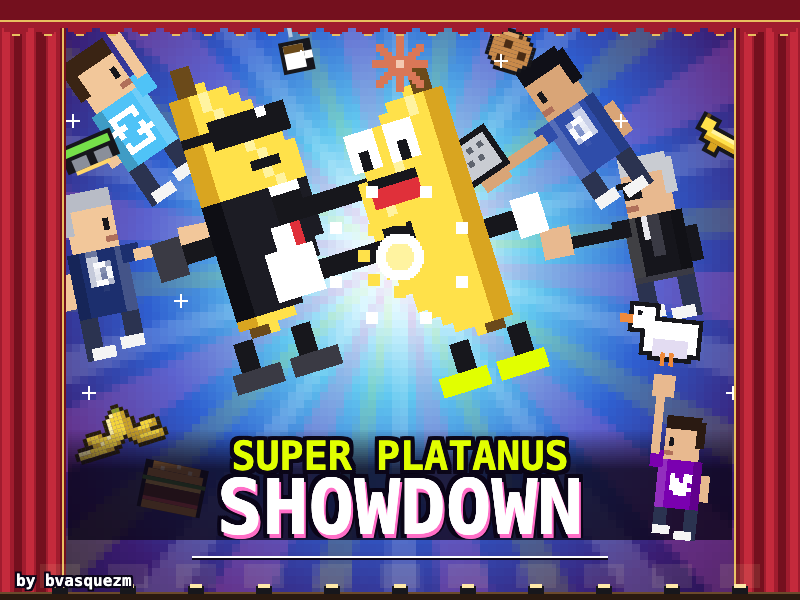
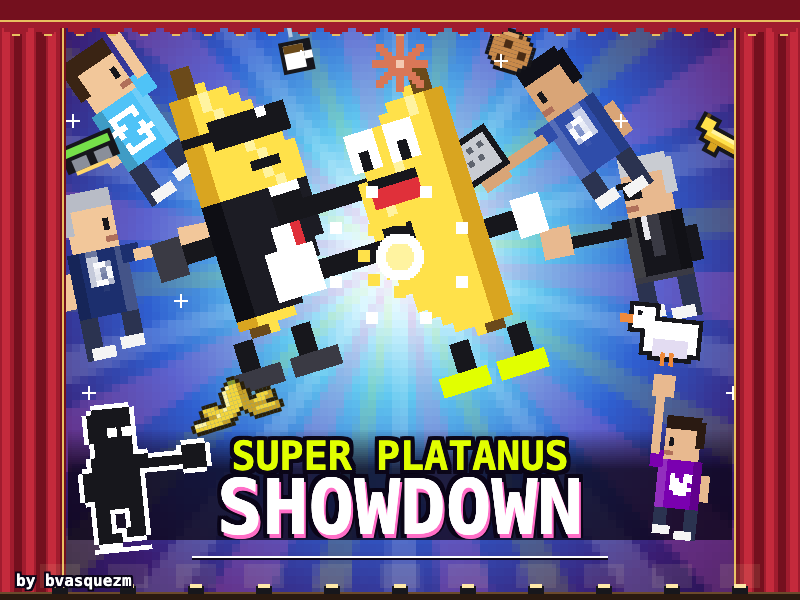
Agrega a Admin (especial SUDO) y destaca el escenario en la selección
Admin: silueta negra con borde blanco; SUDO lanza una sombra a ras de piso
que rootea, invierte los controles o ralentiza al rival. Nombres cortos de
escenarios, portada y descripción con 8 personajes.

Changed region(s): [[0.0938, 0.63, 0.375, 0.93]]

diff --git a/game.js b/game.js
@@ -74,6 +74,8 @@ const CHARS = [
   { n: 'PIPE SATÉLITE', k: 1, sh: $8, lg: 'b', hr: $A, sk: $5, sp: 2.2, jp: 5.4, wt: 1, s: 'orb', tip: 'RUBY EN ÓRBITA' },
   // Tokus: su especial es colgarse de un pajarito y volar unos segundos; después tiene 5 s de espera
   { n: 'TOKUS', k: 1, sh: '#7a00b0', lg: '', ic: LOGO_T, hr: '#2a1a12', sk: $7, sp: 2.3, jp: 5.4, wt: 0.95, s: 'fly', tip: 'VUELA CON SU PAJARITO' },
+  // Admin: silueta negra con borde y ojos blancos (nn). SUDO lanza una sombra a ras de piso con un efecto al azar
+  { n: 'ADMIN', k: 1, nn: 1, sh: $b, lg: '', hr: $b, sk: $b, sp: 2.2, jp: 5.3, wt: 1, s: 'sudo', tip: 'SUDO' },
 ];
 // --- Golpes: su/ac/re = cuadros de preparación/activo/recuperación; x,y,w,h = caja; d daño; kb+ks empuje; a ángulo ---
 const ATK = {
@@ -89,19 +91,20 @@ const ATK = {
   gun: { su: 18, ac: 1, re: 14, pj: 1, cd: 60 }, // cd: cuadros de espera antes de poder usar de nuevo este especial (1 s)
   gpu: { su: 14, ac: 1, re: 16, pj: 2 },
   bulb: { su: 9, ac: 1, re: 14, pj: 3 },
+  sudo: { su: 14, ac: 1, re: 16, pj: 5, cd: 180 },
   // Con un ítem en la mano: teclado (golpe largo y fuerte, como un bate) y pistola banana (disparo)
   kbd: { su: 7, ac: 5, re: 14, x: 19, y: -17, w: 28, h: 16, d: 13, kb: 4.6, ks: 0.165, a: 40 },
   shot: { su: 5, ac: 1, re: 9, pj: 4 },
   fly: {}, // el vuelo de Tokus no es un golpe: se maneja como estado aparte
 };
 // Proyectiles: 1 plátano (duerme), 2 GPU, 3 ampolleta (queda donde se deja y explota al rato), 4 bala de la pistola banana. v = velocidad
-const PJ = [0, { v: 4, d: 8, kb: 1, ks: 0.035, a: 25 }, { v: 3.2, d: 12, kb: 2.4, ks: 0.09, a: 40 }, { v: 0, d: 13, kb: 4.2, ks: 0.11, a: 50 }, { v: 6, d: 5, kb: 1.4, ks: 0.045, a: 28 }];
+const PJ = [0, { v: 4, d: 8, kb: 1, ks: 0.035, a: 25 }, { v: 3.2, d: 12, kb: 2.4, ks: 0.09, a: 40 }, { v: 0, d: 13, kb: 4.2, ks: 0.11, a: 50 }, { v: 6, d: 5, kb: 1.4, ks: 0.045, a: 28 }, { v: 3.2 }];
 // --- Escenarios: m = plataforma principal, p = plataformas colgantes (vx = se mueve entre x0 y x1) ---
 const STAGES = [
-  { n: 'AZOTEA DE BUK', hz: 'PALOMAS', m: { x: 70, y: 226, w: 260, h: 74 }, p: [{ x: 92, y: 178, w: 56 }, { x: 252, y: 178, w: 56 }, { x: 172, y: 134, w: 56 }] },
+  { n: 'EDIFICIO BUK', hz: 'PALOMAS', m: { x: 70, y: 226, w: 260, h: 74 }, p: [{ x: 92, y: 178, w: 56 }, { x: 252, y: 178, w: 56 }, { x: 172, y: 134, w: 56 }] },
   { n: 'TORRES DEL PAINE', hz: 'VIENTO', m: { x: 86, y: 232, w: 228, h: 68 }, p: [{ x: 58, y: 178, w: 50 }, { x: 292, y: 178, w: 50 }, { x: 160, y: 148, w: 70, vx: 0.5, x0: 110, x1: 220 }] },
   // Puerto: las plataformas son containers (ct) que la grúa baja al muelle (y 210), cuelga (160) o se lleva (-40)
-  { n: 'PUERTO DE VALPARAÍSO', hz: 'GRÚA', m: { x: 60, y: 232, w: 280, h: 68 }, p: [{ x: 84, y: 210, w: 48, ct: 1, col: 0 }, { x: 176, y: -40, w: 48, ct: 1, col: 1 }, { x: 268, y: 160, w: 48, ct: 1, col: 2 }] },
+  { n: 'PUERTO VALPARAÍSO', hz: 'GRÚA', m: { x: 60, y: 232, w: 280, h: 68 }, p: [{ x: 84, y: 210, w: 48, ct: 1, col: 0 }, { x: 176, y: -40, w: 48, ct: 1, col: 1 }, { x: 268, y: 160, w: 48, ct: 1, col: 2 }] },
   // Metro: se pelea en las vías; cada tanto pasa un tren que atropella a quien siga abajo.
   // El piso sigue más allá de la pantalla: no hay borde para caerse, solo se pierde saliendo por los lados
   { n: 'METRO DE SANTIAGO', hz: 'TREN', m: { x: -60, y: 238, w: 520, h: 62 }, p: [{ x: 66, y: 180, w: 58 }, { x: 276, y: 180, w: 58 }, { x: 160, y: 142, w: 80 }] },
@@ -132,7 +135,8 @@ const PC = [$e, $p];
 
 let c, AC, TX, LB, G, mode = 'title', clk = 0, acc = 0, two = 0, tsel = 0, cs = [0, 3], si = 0, hz = 1, cur = 0, tunS = 0, tunB = 'title', psel = 0, stn = 0, keepHit = 0, csel = [0, 0];
 
-const R = (col, x, y, w, h) => { c.fillStyle = col; c.fillRect(x | 0, y | 0, Math.ceil(w), Math.ceil(h)); };
+let OV = 0; // color forzado: dibuja la silueta de un luchador en un solo color
+const R = (col, x, y, w, h) => { c.fillStyle = OV || col; c.fillRect(x | 0, y | 0, Math.ceil(w), Math.ceil(h)); };
 const T = (s, x, y, col, sz, al) => { c.fillStyle = col; c.font = 'bold ' + (sz || 8) + 'px monospace'; c.textAlign = al || 'left'; c.textBaseline = 'top'; c.fillText(s, x, y); };
 const TS = (s, x, y, col, sz, al) => { T(s, x + 1, y + 1, '#000000', sz, al); T(s, x, y, col, sz, al); };
 const A = (a, fn) => { c.globalAlpha = a; fn(); c.globalAlpha = 1; };
@@ -324,6 +328,7 @@ function footlights() {
 function dF(f, fl) {
   const ch = CHARS[f.c];
   if (f.st === 'dead' || (f.inv > 0 && (clk >> 2 & 1))) return;
+  if (ch.nn && !fl) { OV = $a; [[1, 0], [-1, 0], [0, 1], [0, -1]].forEach((o) => { c.save(); c.translate(o[0], o[1]); dF(f, 2); c.restore(); }); OV = 0; }
   const act = f.st === 'fly' ? 'u' : f.st === 'atk' && f.t > f.a.su && f.t <= f.a.su + f.a.ac ? f.an : f.st === 'atk' && f.a.pj ? f.an : 0;
   const air = !f.onG, sw = f.onG && Math.abs(f.vx) > 0.4 ? Math.sin(f.rn) * 2.5 : 0, K = $b, cr = f.cr || (f.st === 'atk' && f.an === 'd');
   c.save(); c.translate(f.x | 0, f.y | 0);
@@ -333,6 +338,7 @@ function dF(f, fl) {
   const chg = f.st === 'atk' && f.chg > 0 && f.t <= f.a.su ? f.chg / CHG : 0;
   if (chg) c.translate((clk & 1 ? 1 : -1) * chg, 0);
   c.scale(f.dir, 1);
+  if (fl > 1) f = { ...f, pow: 0, cf: 0, en: 0, cla: 0 }; // en la pasada de borde no van los brillos
   if (f.pow > 0) A(0.25 + 0.15 * Math.sin(clk / 3), () => R($s, -11, -37, 22, 38));
   // Estela de velocidad del café o la energética
   if ((f.cf > 0 || f.en > 0) && Math.abs(f.vx) > 1) A(0.55, () => { for (let k = 0; k < 3; k++) R(f.en > 0 ? $z : $k, -12 - k * 5 - (clk + k * 3) % 4, -26 + k * 9, 7, 2); });
@@ -370,21 +376,21 @@ function dF(f, fl) {
     else { R($a, 1, -30, 3, 4); R($a, 5, -30, 3, 4); R(K, 2, -28, 1, 2); R(K, 6, -28, 1, 2); R('#e0303a', 2, -24, 5, 2); R(K, 2, -25, 5, 1); }
     arm(K, K, glove); inHand();
   } else {
-    const pn = '#2b3350';
-    const sho = $i;
+    const pn = ch.nn ? K : '#2b3350', sho = ch.nn ? K : $i;
     if (cr) { R(pn, -5, -5, 4, 5); R(sho, -5, -2, 5, 2); if (act === 'd') { R(pn, 1, -5, 13, 3); R(sho, 13, -7, 4, 5); } else { R(pn, 1, -5, 4, 5); R(sho, 1, -2, 5, 2); } c.translate(0, 5); }
     else if (act === 'da') { R(pn, -5, -9, 3, 6); R(sho, -5, -4, 4, 2); R(pn, 1, -9, 4, 4); R(pn, 3, -6, 4, 4); R(pn, 5, -3, 4, 3); R(sho, 7, -1, 6, 3); }
     else if (air) { R(pn, -5, -9, 3, 7); R(pn, 2, -10, 3, 7); R(sho, -4, -4, 4, 2); R(sho, 1, -5, 4, 2); }
     else { R(pn, -4 + sw, -9, 3, 9); R(pn, 1 - sw, -9, 3, 9); R(sho, -4 + sw, -2, 4, 2); R(sho, 1 - sw, -2, 4, 2); }
     R(ch.jk ? ch.sh : ch.sk, -7 - sw / 2, -17, 2, 6);
-    R(ch.sh, -5, -20, 10, 11); R('rgba(0,0,0,.2)', -5, -20, 2, 11); R('rgba(255,255,255,.18)', 3, -20, 2, 11);
-    R(ch.sk, -4, -28, 8, 8); R(ch.hr, -4, -30, 8, 3); R(ch.hr, -5, -29, 2, 6); R(K, 2, -25, 1, 2); R('#b0705a', 2, -22, 2, 1);
+    R(ch.sh, -5, -20, 10, 11); if (!ch.nn) { R('rgba(0,0,0,.2)', -5, -20, 2, 11); R('rgba(255,255,255,.18)', 3, -20, 2, 11); }
+    R(ch.sk, -4, -28, 8, 8); R(ch.hr, -4, -30, 8, 3); R(ch.hr, -5, -29, 2, 6); if (ch.nn) { R($a, -1, -26, 2, 2); R($a, 2, -26, 2, 2); } else { R(K, 2, -25, 1, 2); R('#b0705a', 2, -22, 2, 1); }
     if (ch.gl) { R(K, 0, -26, 5, 1); R(K, 1, -26, 3, 3); R('#bfe3ff', 2, -25, 1, 1); }
     if (ch.brd) { R(ch.hr, 0, -22, 4, 2); R(ch.hr, -1, -23, 1, 3); }
     if (ch.jk) { R($d, -1, -20, 2, 7); R('#e8e8ee', 1, -20, 1, 4); R($d, -5, -10, 10, 1); }
     arm(ch.sh, ch.jk ? ch.sh : ch.sk, ch.sk); inHand();
   }
   c.restore();
+  if (fl > 1) return;
   const x = f.x | 0, y = f.y | 0;
   if (ch.lg && f.st !== 'stun' && f.st !== 'dodge' && act !== 'spin') T(ch.lg, x, y - 19 + (cr ? 5 : 0), $a, 7, 'center');
   // Logo de Neat al centro de la polera (7x7): barra de arriba con flecha que baja a la izquierda, barra de abajo con flecha que sube a la derecha
@@ -475,17 +481,19 @@ function ai(f, o) {
     else if (ad < 16 && dy < -14 && dy > -44) { I.u = 1; I.atk = 1; f.cdn = 26; }
     else if (dy < -24 && rnd() < 0.06) { I.jmp = 1; f.cdn = 10; }
     else if (f.hold === 2 && ad > 40 && Math.abs(dy) < 16 && rnd() < 0.08) { I.atk = 1; I.l = I.r = 0; f.cdn = 24; }
-    else if (sp.pj && sp.pj < 3 && ad > 50 && Math.abs(dy) < 20 && rnd() < 0.03) { I.spc = 1; f.cdn = 50; }
+    else if (sp.pj && sp.pj !== 3 && ad > 50 && Math.abs(dy) < 20 && rnd() < 0.03) { I.spc = 1; f.cdn = 50; }
   }
   return I;
 }
 function fighter(f, I) {
   const ch = CHARS[f.c], g = G, sp = ch.sp * TN.vel * (f.slow > 0 ? 0.45 : 1) * (f.en > 0 ? 1.4 : f.cf > 0 ? 1.25 : 1);
-  if (f.st === 'dead') { if (--f.t <= 0 && f.stk > 0) Object.assign(f, { st: 'idle', x: si === 4 && G.br.st ? G.br.x + (f.i ? HW + 26 : -26) : 200 + (f.i ? 30 : -30), y: 70, vx: 0, vy: 0, pct: 0, inv: 120, jumps: 1, onG: 0, on: null, zz: 0, slow: 0, shp: 100 }); return; }
+  if (f.st === 'dead') { if (--f.t <= 0 && f.stk > 0) Object.assign(f, { st: 'idle', x: si === 4 && G.br.st ? G.br.x + (f.i ? HW + 26 : -26) : 200 + (f.i ? 30 : -30), y: 70, vx: 0, vy: 0, pct: 0, inv: 120, jumps: 1, onG: 0, on: null, zz: 0, slow: 0, rt: 0, iv: 0, shp: 100 }); return; }
   if (f.cf > 0) f.cf--; if (f.en > 0) f.en--; if (!I.sh) f.nsh = 0;
   if (f.scd > 0) f.scd--; if (f.fcd > 0) f.fcd--; if (f.fl && f.st !== 'fly') { f.fl = 0; f.fcd = FCD; } // el vuelo terminó (se soltó, aterrizó o le pegaron): parte la espera
   if (f.inv > 0) f.inv--; if (f.pow > 0) f.pow--; if (f.cla > 0) f.cla--; if (f.slow > 0) f.slow--; if (f.dcd > 0) f.dcd--;
   if (f.st !== 'sh' && f.shp < 100) f.shp += 0.35;
+  if (f.iv > 0) { f.iv--; [I.l, I.r] = [I.r, I.l]; }
+  if (f.rt > 0) { f.rt--; I.l = I.r = I.jmp = 0; }
   const mv = (I.r ? 1 : 0) - (I.l ? 1 : 0);
   f.cr = f.st === 'atk' && f.an === 'd' ? 1 : 0; // agachado: caja de golpe más baja
   if (f.st === 'stun') { if (--f.t <= 0) { f.st = 'idle'; f.zz = 0; } f.vx *= f.onG ? 0.8 : 0.965; }
@@ -495,7 +503,7 @@ function fighter(f, I) {
     if (a.w && f.t === a.su && I.ah && f.chg < CHG) { if (++f.chg % 9 === 0) beep(260 + f.chg * 9, 0.04, 'square', 0.02); } else f.t++;
     if (f.onG && f.an !== 'spin') f.vx *= 0.75; else if (!f.onG) f.vx += (mv * sp - f.vx) * 0.04;
     if (f.an === 'spin' && f.t > a.su && f.t <= a.su + a.ac) f.vx = f.dir * 4.2;
-    if (a.pj && f.t === a.su) { g.pj.push({ x: a.pj === 3 ? f.x : f.x + f.dir * 14, y: a.pj === 3 ? f.y : f.y - 20, vx: f.dir * PJ[a.pj].v, vy: 0, o: f.i, ty: a.pj, l: a.pj === 3 ? 85 : 90 }); beep(a.pj === 1 ? 300 : 700, 0.1, 'square', 0.04, a.pj === 1 ? 150 : 1100); if (a.pj === 4 && --f.am <= 0) { f.hold = 0; say(f.x, f.y - 44, 'SIN BALAS', $t); } }
+    if (a.pj && f.t === a.su) { g.pj.push({ x: a.pj === 3 ? f.x : f.x + f.dir * 14, y: a.pj === 3 ? f.y : f.y - (a.pj > 4 ? 2 : 20), vx: f.dir * PJ[a.pj].v, vy: 0, o: f.i, ty: a.pj, l: a.pj === 3 ? 85 : 90 }); beep(a.pj === 1 ? 300 : 700, 0.1, 'square', 0.04, a.pj === 1 ? 150 : 1100); if (a.pj === 4 && --f.am <= 0) { f.hold = 0; say(f.x, f.y - 44, 'SIN BALAS', $t); } }
     if (f.t >= a.su + a.ac + a.re) f.st = 'idle';
   } else if (f.st === 'sh') {
     // Escudo: se gasta mientras se mantiene; con una dirección se convierte en esquiva
@@ -685,7 +693,13 @@ function tick() {
       return false;
     }
     p.x += p.vx;
-    if (!safe(o) && Math.abs(o.x - p.x) < 9 && p.y < o.y + 2 && p.y > o.y - (o.cr ? 19 : 30)) { strike(o, Math.sign(p.vx), PJ[p.ty], src, p.ty === 1 ? 34 : 0); return false; }
+    if (!safe(o) && Math.abs(o.x - p.x) < 9 && p.y < o.y + 2 && p.y > o.y - (o.cr ? 19 : 30)) {
+      if (p.ty < 5) strike(o, Math.sign(p.vx), PJ[p.ty], src, p.ty === 1 ? 34 : 0);
+      else if (o.st === 'sh') beep(900, 0.06);
+      // SUDO: al azar lo clava al piso (rt), le invierte la palanca (iv) o lo deja lento
+      else { const k = Math.random() * 3 | 0; o[['rt', 'iv', 'slow'][k]] = k ? 240 : 100; o.pct += 6 * TN.dano; say(o.x, o.y - 44, ['¡ROOTEADO!', '¡CONTROLES INVERTIDOS!', '¡LENTO!'][k], $a); beep(160, 0.3, 'sawtooth', 0.06, 50); }
+      return false;
+    }
     return --p.l > 0 && p.x > -20 && p.x < 420;
   });
   // Ítems: caen del cielo sobre una plataforma fija
@@ -788,8 +802,8 @@ function draw() {
       T(i && !two ? 'J1: ↑↓ CAMBIA AL RIVAL' : '←→ CAMBIA', x, 207, $f, 6, 'center');
     });
     T('VS', 200, 110, $a, 22, 'center');
-    T('ESCENARIO: ' + STAGES[si].n + '   (BOTÓN 2 CAMBIA)', 200, 226, $j, 9, 'center');
-    T('PELIGROS (' + STAGES[si].hz + '): ' + (hz ? 'SÍ' : 'NO') + '   (BOTÓN 3 CAMBIA)', 200, 240, hz ? $j : $f, 9, 'center');
+    T('ESCENARIO · BOTÓN 2 CAMBIA', 200, 215, $f, 6, 'center'); TS(STAGES[si].n, 200, 222, $e, 14, 'center');
+    T('PELIGROS (' + STAGES[si].hz + '): ' + (hz ? 'SÍ' : 'NO') + '   (BOTÓN 3 CAMBIA)', 200, 241, hz ? $j : $f, 9, 'center');
     if (clk % 60 < 36) T('START O BOTÓN 1: ¡A ESCENA!', 200, 262, $p, 12, 'center');
     curtains(cur); footlights(); return;
   }
@@ -883,6 +897,7 @@ function draw() {
       c.restore();
     }
     else if (p.ty === 1) { R($c, p.x - 3, p.y, 6, 2); R($c, p.x - 4, p.y - 2, 2, 3); R($c, p.x + 2, p.y - 2, 2, 3); A(0.4, () => R($c, p.x - 3 - p.vx * 2, p.y, 6, 2)); }
+    else if (p.ty > 4) { R($a, p.x - 8, p.y - 3, 16, 5); R($b, p.x - 7, p.y - 2, 14, 3); R($a, p.x + Math.sign(p.vx) * 3 - 1, p.y - 1, 2, 1); }
     else if (p.ty === 2) { R($b, p.x - 7, p.y - 4, 14, 8); R($s, p.x - 6, p.y - 3, 12, 2); R($f, p.x - 5, p.y, 4, 3); R($f, p.x + 1, p.y, 4, 3); }
     else { const hot = p.l < 40 && (p.l >> 2 & 1); R($b, p.x - 4, p.y - 10, 8, 8); R(hot ? $v : '#fff7c2', p.x - 3, p.y - 9, 6, 6); R($a, p.x - 2, p.y - 8, 2, 2); R($f, p.x - 2, p.y - 3, 4, 3); R($h, p.x - 2, p.y - 2, 4, 1); }
   });
